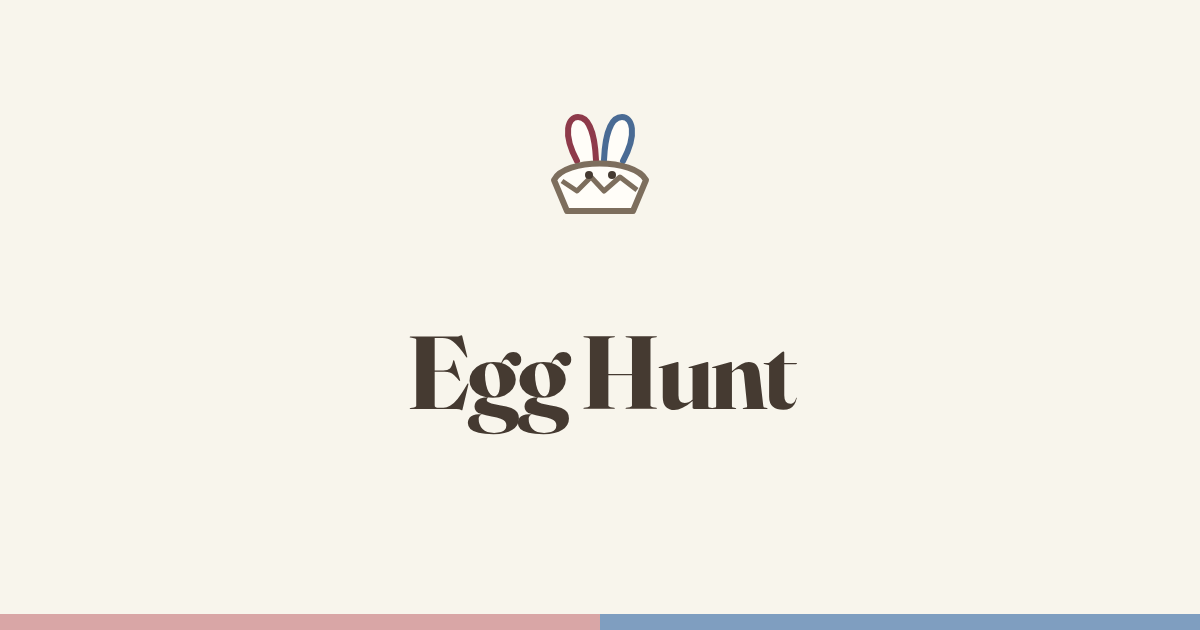
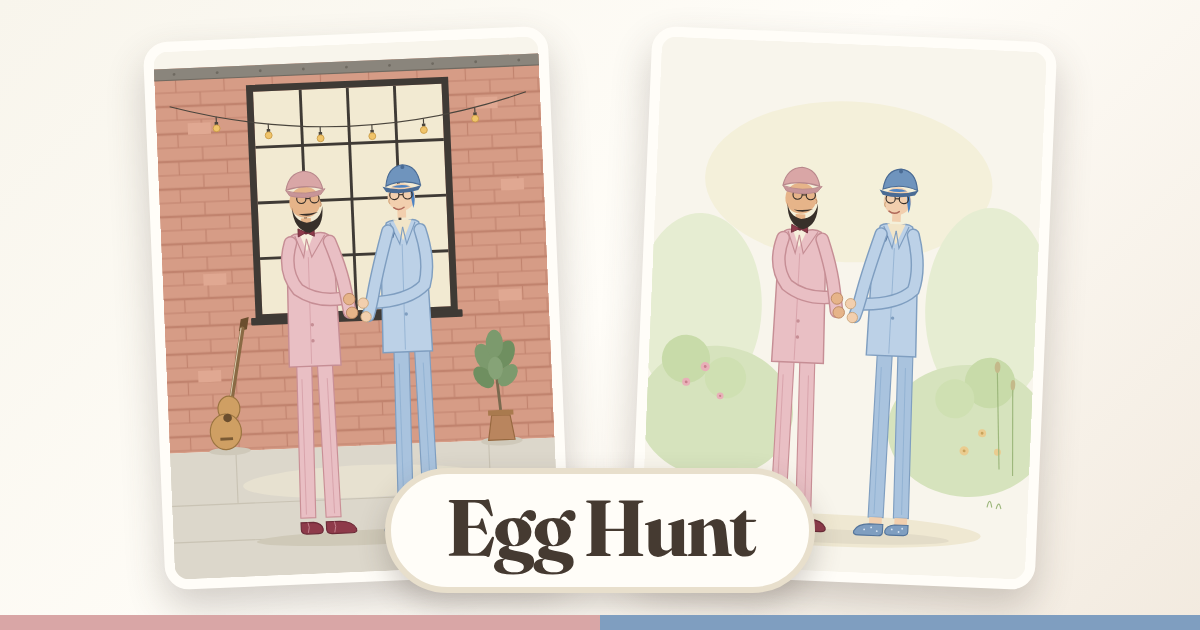
Redesign the game social previews

diff --git a/tests/social-card-render.html b/tests/social-card-render.html
@@ -9,41 +9,42 @@
 <style>
   *{box-sizing:border-box}
   html,body{width:1200px;height:630px;margin:0;overflow:hidden}
-  body{display:grid;place-items:center;background:#f8f5ec;color:#453a31;font-family:"Fraunces",Georgia,serif}
-  .card{position:relative;width:100%;height:100%;display:grid;place-items:center}
-  .mark{position:absolute;top:112px;left:50%;width:150px;height:112px;transform:translateX(-50%)}
-  .title{margin-top:114px;font-size:104px;font-weight:700;letter-spacing:-.035em;line-height:1}
-  .rule{position:absolute;inset:auto 0 0;height:16px;background:linear-gradient(90deg,#d9a6a6 0 50%,#7f9ec0 50%)}
-  .egg-mark{display:none}
-  .loft-mark{display:none}
-  body.egg .egg-mark,body.loft .loft-mark{display:block}
+  body{background:#f8f5ec;color:#453a31;font-family:"Fraunces",Georgia,serif}
+  .card{position:relative;width:1200px;height:630px;overflow:hidden}
+  .egg-card,.loft-card{display:none}
+  body.egg .egg-card,body.loft .loft-card{display:block}
+
+  .egg-card{height:100%;background:linear-gradient(135deg,#f8f5ec 0%,#fffdf8 50%,#f2eadf 100%)}
+  .egg-scene{position:absolute;top:34px;width:405px;height:548px;object-fit:cover;border:10px solid #fffdf8;border-radius:24px;background:#fffdf8;box-shadow:0 18px 38px rgba(69,58,49,.24)}
+  .egg-scene.loft{left:154px;transform:rotate(-2.4deg)}
+  .egg-scene.garden{right:154px;transform:rotate(2.4deg)}
+  .egg-title{position:absolute;left:50%;bottom:37px;transform:translateX(-50%);min-width:430px;padding:15px 48px 20px;border:6px solid #e8dfcc;border-radius:999px;background:#fffdf8;box-shadow:0 12px 28px rgba(69,58,49,.24);font-size:78px;font-weight:700;letter-spacing:-.035em;line-height:1;text-align:center;white-space:nowrap}
+
+  .loft-card{height:100%;background:#c07a55}
+  .loft-world{position:absolute;left:-1310px;top:-250px;width:14000px;height:1400px;max-width:none}
+  .loft-shade{position:absolute;inset:0;background:linear-gradient(90deg,rgba(23,35,50,.72) 0%,rgba(23,35,50,.26) 32%,rgba(23,35,50,0) 58%,rgba(23,35,50,.16) 100%)}
+  .loft-title{position:absolute;left:76px;top:70px;padding:21px 44px 29px;border:7px solid #d9a6a6;border-radius:28px;background:rgba(255,253,248,.94);box-shadow:0 16px 34px rgba(31,25,19,.32);font-size:91px;font-weight:700;letter-spacing:-.04em;line-height:1}
+  .loft-subtitle{position:absolute;left:83px;top:230px;max-width:330px;color:#fffdf8;font-size:31px;font-weight:500;line-height:1.18;text-shadow:0 2px 3px rgba(31,25,19,.72)}
+  .rule{position:absolute;inset:auto 0 0;height:15px;background:linear-gradient(90deg,#d9a6a6 0 50%,#7f9ec0 50%)}
 </style>
 </head>
 <body>
-<main class="card">
-  <svg class="mark egg-mark" viewBox="0 0 150 112">
-    <path d="M52 49C37 21 43 5 53 5c12 0 17 20 18 43" fill="#fffdf8" stroke="#8e3a4a" stroke-width="6" stroke-linecap="round"/>
-    <path d="M98 49c15-28 9-44-1-44-12 0-17 20-18 43" fill="#fffdf8" stroke="#4a6b94" stroke-width="6" stroke-linecap="round"/>
-    <path d="M29 68c11-22 80-22 92 0l-13 31H42Z" fill="#fffdf8" stroke="#7d6e5d" stroke-width="6" stroke-linejoin="round"/>
-    <path d="m37 69 15 10 14-14 13 14 16-14 17 13" fill="none" stroke="#7d6e5d" stroke-width="5" stroke-linejoin="round"/>
-    <circle cx="64" cy="63" r="4" fill="#453a31"/><circle cx="87" cy="63" r="4" fill="#453a31"/>
-  </svg>
-  <svg class="mark loft-mark" viewBox="0 0 150 112">
-    <path d="M13 100V31L75 6l62 25v69Z" fill="#fffdf8" stroke="#7d6e5d" stroke-width="6" stroke-linejoin="round"/>
-    <path d="M30 39h90v61H30Z" fill="#172332" stroke="#453a31" stroke-width="5"/>
-    <path d="M60 39v61M90 39v61M30 70h90" stroke="#7f9ec0" stroke-width="4" opacity=".55"/>
-    <path d="M34 49q41 26 82 0" fill="none" stroke="#d9a6a6" stroke-width="3"/>
-    <circle cx="42" cy="54" r="5" fill="#f0cf6a"/><circle cx="58" cy="61" r="5" fill="#4a6b94"/>
-    <circle cx="75" cy="64" r="5" fill="#8e3a4a"/><circle cx="92" cy="61" r="5" fill="#d9a6a6"/>
-    <circle cx="108" cy="54" r="5" fill="#f0cf6a"/>
-  </svg>
-  <div class="title"></div>
+<main class="card egg-card">
+  <img class="egg-scene loft" src="../art/loft-scene.svg" alt="">
+  <img class="egg-scene garden" src="../art/garden-scene.svg" alt="">
+  <div class="egg-title">Egg Hunt</div>
+  <div class="rule"></div>
+</main>
+<main class="card loft-card">
+  <img class="loft-world" src="../art/loft-game-strip.svg" alt="">
+  <div class="loft-shade"></div>
+  <div class="loft-title">Loft Day</div>
+  <div class="loft-subtitle">Espresso, rooms,<br>parties &amp; road trips.</div>
   <div class="rule"></div>
 </main>
 <script>
   var loft = new URLSearchParams(location.search).get("card") === "loft";
   document.body.className = loft ? "loft" : "egg";
-  document.querySelector(".title").textContent = loft ? "Loft Day" : "Egg Hunt";
 </script>
 </body>
 </html>

diff --git a/tests/social-cards.js b/tests/social-cards.js
@@ -26,6 +26,14 @@ function dimensions(file) {
   return { width: png.readUInt32BE(16), height: png.readUInt32BE(20) };
 }
 
+var renderer = fs.readFileSync(path.join(root, "tests/social-card-render.html"), "utf8");
+check(/loft-world[^>]+loft-game-strip\.svg/.test(renderer) &&
+  /loft-title[^>]*>Loft Day</.test(renderer),
+  "Loft Day card uses the real espresso kitchen artwork");
+check(/egg-scene loft[^>]+loft-scene\.svg/.test(renderer) &&
+  /egg-scene garden[^>]+garden-scene\.svg/.test(renderer),
+  "Egg Hunt card pairs the two authored scene illustrations");
+
 [
   {
     file: "egg-hunt.html",
